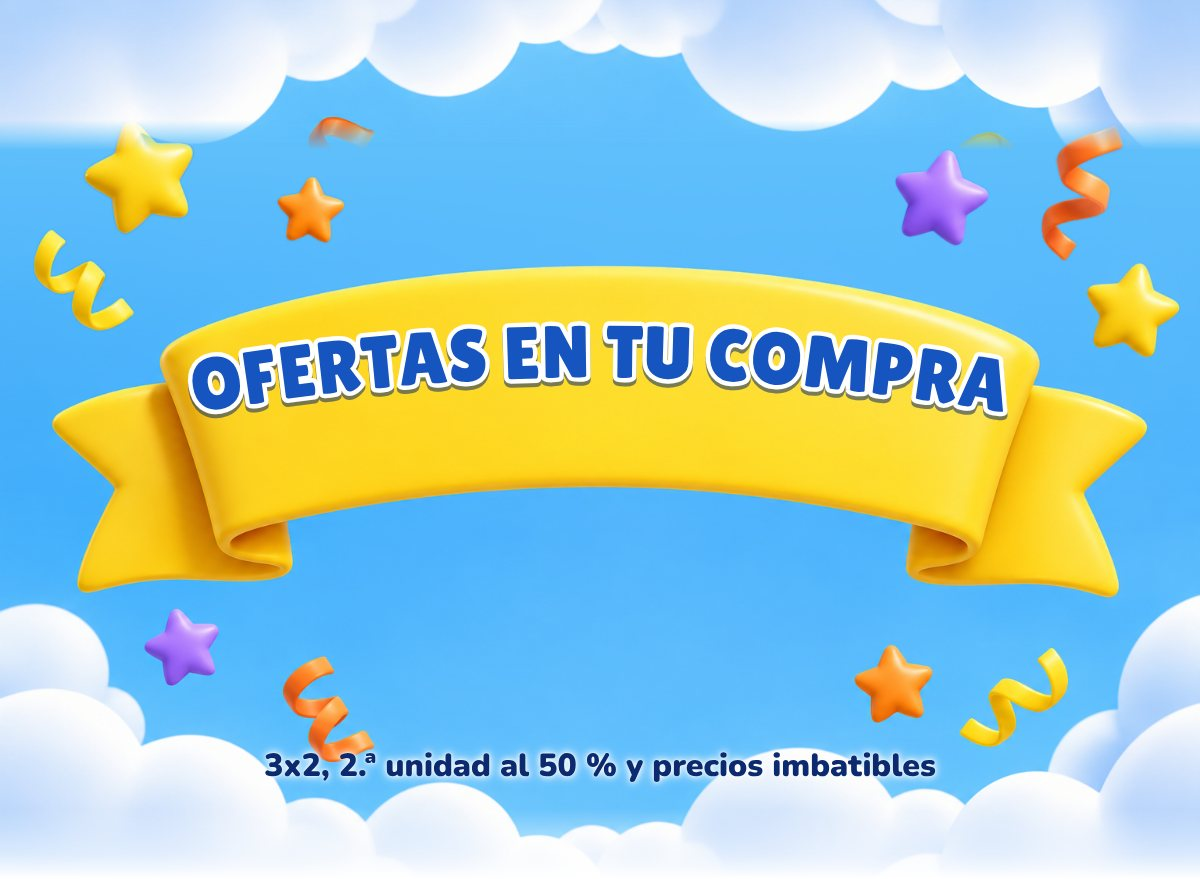
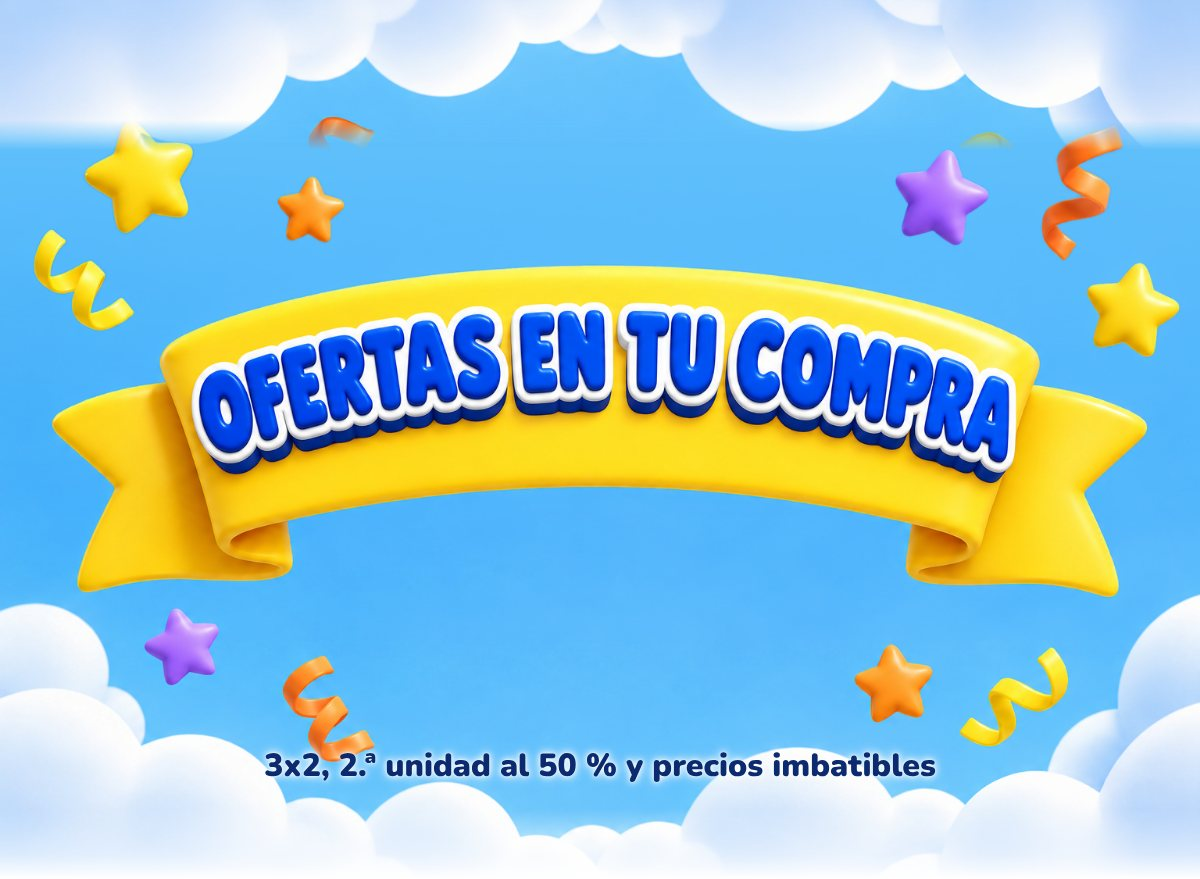
Cabeceras de sección con rótulos 3D generados sobre la cinta
Claude-Session: https://claude.ai/code/session_014n8fruw4BUtYLKWozkJouR

diff --git a/index.html b/index.html
@@ -19,52 +19,52 @@ body{margin:0;padding:0;background:#EEF3F9}
 <tr><td align="center" style="padding:10px 16px;font-family:Arial, Helvetica, sans-serif;font-size:12px;line-height:18px;color:#4A5878;background:#EEF3F9">
 <strong style="color:#0B2A6F">Publicidad</strong> · Ejercicio académico. Mercaviva es una marca ficticia; no es una comunicación oficial de Carrefour.<br>
 ¿No ves bien este email? <a href="{$url}" target="_blank" style="color:#0057B8;text-decoration:underline">Ábrelo en el navegador</a></td></tr>
-<tr><td style="padding:0"><a href="https://www.carrefour.es/lavadora-lg-f2x50s9tlb-9-kg-carga-frontal-1200-rpm-wifi-clase-a-blanco/VC4A-32514266/p?utm_source=newsletter&utm_medium=email&utm_campaign=black_friday_2026&utm_content=lavadora_lg" target="_blank"><img src="https://caarlosfdz.github.io/newsletter-mercaviva/bf-cover.jpg?v=10190853" width="600" alt="Mercaviva. Black Friday del 20 de octubre al 27 de noviembre: 50 % y 70 % de descuento en tecnología, electrodomésticos y alimentación" class="fluid" style="display:block;width:100%;max-width:600px;height:auto;border:0"></a></td></tr>
-<tr><td style="padding:0"><a href="https://www.carrefour.es/lavadora-lg-f2x50s9tlb-9-kg-carga-frontal-1200-rpm-wifi-clase-a-blanco/VC4A-32514266/p?utm_source=newsletter&utm_medium=email&utm_campaign=black_friday_2026&utm_content=lavadora_lg" target="_blank"><img src="https://caarlosfdz.github.io/newsletter-mercaviva/bf-p1.jpg?v=10190853" width="600" alt="Lavadora LG 9 kg: 164,70 €, antes 549 €, 70 % de descuento" class="fluid" style="display:block;width:100%;max-width:600px;height:auto;border:0"></a></td></tr>
-<tr><td style="padding:0"><img src="https://caarlosfdz.github.io/newsletter-mercaviva/bf-tit-tecnologia.jpg?v=10190853" width="600" alt="Ofertas en tecnología: descuentos de hasta el 70 %" class="fluid" style="display:block;width:100%;max-width:600px;height:auto;border:0"></td></tr>
-<tr><td style="padding:0"><img src="https://caarlosfdz.github.io/newsletter-mercaviva/bf-nubes-arriba.jpg?v=10190853" width="600" alt="" class="fluid" style="display:block;width:100%;max-width:600px;height:auto;border:0"></td></tr>
+<tr><td style="padding:0"><a href="https://www.carrefour.es/lavadora-lg-f2x50s9tlb-9-kg-carga-frontal-1200-rpm-wifi-clase-a-blanco/VC4A-32514266/p?utm_source=newsletter&utm_medium=email&utm_campaign=black_friday_2026&utm_content=lavadora_lg" target="_blank"><img src="https://caarlosfdz.github.io/newsletter-mercaviva/bf-cover.jpg?v=10190857" width="600" alt="Mercaviva. Black Friday del 20 de octubre al 27 de noviembre: 50 % y 70 % de descuento en tecnología, electrodomésticos y alimentación" class="fluid" style="display:block;width:100%;max-width:600px;height:auto;border:0"></a></td></tr>
+<tr><td style="padding:0"><a href="https://www.carrefour.es/lavadora-lg-f2x50s9tlb-9-kg-carga-frontal-1200-rpm-wifi-clase-a-blanco/VC4A-32514266/p?utm_source=newsletter&utm_medium=email&utm_campaign=black_friday_2026&utm_content=lavadora_lg" target="_blank"><img src="https://caarlosfdz.github.io/newsletter-mercaviva/bf-p1.jpg?v=10190857" width="600" alt="Lavadora LG 9 kg: 164,70 €, antes 549 €, 70 % de descuento" class="fluid" style="display:block;width:100%;max-width:600px;height:auto;border:0"></a></td></tr>
+<tr><td style="padding:0"><img src="https://caarlosfdz.github.io/newsletter-mercaviva/bf-tit-tecnologia.jpg?v=10190857" width="600" alt="Ofertas en tecnología: descuentos de hasta el 70 %" class="fluid" style="display:block;width:100%;max-width:600px;height:auto;border:0"></td></tr>
+<tr><td style="padding:0"><img src="https://caarlosfdz.github.io/newsletter-mercaviva/bf-nubes-arriba.jpg?v=10190857" width="600" alt="" class="fluid" style="display:block;width:100%;max-width:600px;height:auto;border:0"></td></tr>
 <tr><td bgcolor="#5CC4FC" style="padding:0;background:#5CC4FC"><table role="presentation" cellpadding="0" cellspacing="0" border="0" width="100%"><tr>
-<td class="col" width="300" valign="top" style="width:300px;vertical-align:top"><a href="https://www.carrefour.es/proyector-yaber-pro-u9-proyector-1080p-nativo-con-wifi-5g-y-bluetooth-15000lm-brillo-ultra-alto-460-ansi-corrector-keystone-4p-4d/0602561264473/p?utm_source=newsletter&utm_medium=email&utm_campaign=black_friday_2026&utm_content=proyector_yaber" target="_blank"><img src="https://caarlosfdz.github.io/newsletter-mercaviva/bf-p6.png?v=10190853" width="300" alt="Proyector Yaber Pro U9: 95,22 €, antes 218,99 €, −56,5 % y envío gratis" class="fluid" style="display:block;width:100%;max-width:300px;height:auto;border:0"></a>
+<td class="col" width="300" valign="top" style="width:300px;vertical-align:top"><a href="https://www.carrefour.es/proyector-yaber-pro-u9-proyector-1080p-nativo-con-wifi-5g-y-bluetooth-15000lm-brillo-ultra-alto-460-ansi-corrector-keystone-4p-4d/0602561264473/p?utm_source=newsletter&utm_medium=email&utm_campaign=black_friday_2026&utm_content=proyector_yaber" target="_blank"><img src="https://caarlosfdz.github.io/newsletter-mercaviva/bf-p6.png?v=10190857" width="300" alt="Proyector Yaber Pro U9: 95,22 €, antes 218,99 €, −56,5 % y envío gratis" class="fluid" style="display:block;width:100%;max-width:300px;height:auto;border:0"></a>
 <div style="padding:4px 14px 26px"><table role="presentation" cellpadding="0" cellspacing="0" border="0" width="100%"><tr><td align="center" bgcolor="#5CC4FC" style="background:#5CC4FC">
-<a href="https://www.carrefour.es/proyector-yaber-pro-u9-proyector-1080p-nativo-con-wifi-5g-y-bluetooth-15000lm-brillo-ultra-alto-460-ansi-corrector-keystone-4p-4d/0602561264473/p?utm_source=newsletter&utm_medium=email&utm_campaign=black_friday_2026&utm_content=proyector_yaber" target="_blank" style="display:block;text-decoration:none"><img src="https://caarlosfdz.github.io/newsletter-mercaviva/bf-btn-p6.png?v=10190853" width="270" alt="Llévatelo ya" class="fluid" style="display:block;width:100%;max-width:270px;height:auto;border:0;font-family:Arial, Helvetica, sans-serif;font-size:16px;font-weight:bold;line-height:52px;color:#0B2A6F;text-align:center"></a></td></tr></table></div></td>
-<td class="col" width="300" valign="top" style="width:300px;vertical-align:top"><a href="https://www.carrefour.es/lavavajillas-60-cm-candy-cf3e7e0w-5-programas-13-cubiertos-clase-e-blanco/VC4A-33175690/p?utm_source=newsletter&utm_medium=email&utm_campaign=black_friday_2026&utm_content=lavavajillas_candy" target="_blank"><img src="https://caarlosfdz.github.io/newsletter-mercaviva/bf-p2.png?v=10190853" width="300" alt="Lavavajillas Candy CF3E7E0W: 154,50 €, antes 309 €, −50 %" class="fluid" style="display:block;width:100%;max-width:300px;height:auto;border:0"></a>
+<a href="https://www.carrefour.es/proyector-yaber-pro-u9-proyector-1080p-nativo-con-wifi-5g-y-bluetooth-15000lm-brillo-ultra-alto-460-ansi-corrector-keystone-4p-4d/0602561264473/p?utm_source=newsletter&utm_medium=email&utm_campaign=black_friday_2026&utm_content=proyector_yaber" target="_blank" style="display:block;text-decoration:none"><img src="https://caarlosfdz.github.io/newsletter-mercaviva/bf-btn-p6.png?v=10190857" width="270" alt="Llévatelo ya" class="fluid" style="display:block;width:100%;max-width:270px;height:auto;border:0;font-family:Arial, Helvetica, sans-serif;font-size:16px;font-weight:bold;line-height:52px;color:#0B2A6F;text-align:center"></a></td></tr></table></div></td>
+<td class="col" width="300" valign="top" style="width:300px;vertical-align:top"><a href="https://www.carrefour.es/lavavajillas-60-cm-candy-cf3e7e0w-5-programas-13-cubiertos-clase-e-blanco/VC4A-33175690/p?utm_source=newsletter&utm_medium=email&utm_campaign=black_friday_2026&utm_content=lavavajillas_candy" target="_blank"><img src="https://caarlosfdz.github.io/newsletter-mercaviva/bf-p2.png?v=10190857" width="300" alt="Lavavajillas Candy CF3E7E0W: 154,50 €, antes 309 €, −50 %" class="fluid" style="display:block;width:100%;max-width:300px;height:auto;border:0"></a>
 <div style="padding:4px 14px 26px"><table role="presentation" cellpadding="0" cellspacing="0" border="0" width="100%"><tr><td align="center" bgcolor="#5CC4FC" style="background:#5CC4FC">
-<a href="https://www.carrefour.es/lavavajillas-60-cm-candy-cf3e7e0w-5-programas-13-cubiertos-clase-e-blanco/VC4A-33175690/p?utm_source=newsletter&utm_medium=email&utm_campaign=black_friday_2026&utm_content=lavavajillas_candy" target="_blank" style="display:block;text-decoration:none"><img src="https://caarlosfdz.github.io/newsletter-mercaviva/bf-btn-p2.png?v=10190853" width="270" alt="Aprovecha el −50 %" class="fluid" style="display:block;width:100%;max-width:270px;height:auto;border:0;font-family:Arial, Helvetica, sans-serif;font-size:16px;font-weight:bold;line-height:52px;color:#0B2A6F;text-align:center"></a></td></tr></table></div></td></tr></table></td></tr>
+<a href="https://www.carrefour.es/lavavajillas-60-cm-candy-cf3e7e0w-5-programas-13-cubiertos-clase-e-blanco/VC4A-33175690/p?utm_source=newsletter&utm_medium=email&utm_campaign=black_friday_2026&utm_content=lavavajillas_candy" target="_blank" style="display:block;text-decoration:none"><img src="https://caarlosfdz.github.io/newsletter-mercaviva/bf-btn-p2.png?v=10190857" width="270" alt="Aprovecha el −50 %" class="fluid" style="display:block;width:100%;max-width:270px;height:auto;border:0;font-family:Arial, Helvetica, sans-serif;font-size:16px;font-weight:bold;line-height:52px;color:#0B2A6F;text-align:center"></a></td></tr></table></div></td></tr></table></td></tr>
 <tr><td bgcolor="#5CC4FC" style="padding:0;background:#5CC4FC"><table role="presentation" cellpadding="0" cellspacing="0" border="0" width="100%"><tr>
-<td class="col" width="300" valign="top" style="width:300px;vertical-align:top"><a href="https://www.carrefour.es/tv-lg-oled-evo-c5-2025-83-uhd-4k-oled83c5ela/8806096419687/p?utm_source=newsletter&utm_medium=email&utm_campaign=black_friday_2026&utm_content=tv_lg_oled" target="_blank"><img src="https://caarlosfdz.github.io/newsletter-mercaviva/bf-p5.png?v=10190853" width="300" alt="TV LG OLED evo C5 83 pulgadas: 4.877,62 €, antes 6.150,99 €, −20,7 %" class="fluid" style="display:block;width:100%;max-width:300px;height:auto;border:0"></a>
+<td class="col" width="300" valign="top" style="width:300px;vertical-align:top"><a href="https://www.carrefour.es/tv-lg-oled-evo-c5-2025-83-uhd-4k-oled83c5ela/8806096419687/p?utm_source=newsletter&utm_medium=email&utm_campaign=black_friday_2026&utm_content=tv_lg_oled" target="_blank"><img src="https://caarlosfdz.github.io/newsletter-mercaviva/bf-p5.png?v=10190857" width="300" alt="TV LG OLED evo C5 83 pulgadas: 4.877,62 €, antes 6.150,99 €, −20,7 %" class="fluid" style="display:block;width:100%;max-width:300px;height:auto;border:0"></a>
 <div style="padding:4px 14px 26px"><table role="presentation" cellpadding="0" cellspacing="0" border="0" width="100%"><tr><td align="center" bgcolor="#5CC4FC" style="background:#5CC4FC">
-<a href="https://www.carrefour.es/tv-lg-oled-evo-c5-2025-83-uhd-4k-oled83c5ela/8806096419687/p?utm_source=newsletter&utm_medium=email&utm_campaign=black_friday_2026&utm_content=tv_lg_oled" target="_blank" style="display:block;text-decoration:none"><img src="https://caarlosfdz.github.io/newsletter-mercaviva/bf-btn-p5.png?v=10190853" width="270" alt="Ahorra 1.273 €" class="fluid" style="display:block;width:100%;max-width:270px;height:auto;border:0;font-family:Arial, Helvetica, sans-serif;font-size:16px;font-weight:bold;line-height:52px;color:#0B2A6F;text-align:center"></a></td></tr></table></div></td>
-<td class="col" width="300" valign="top" style="width:300px;vertical-align:top"><a href="https://www.carrefour.es/consola-nintendo-switch-2-256-gb-star-fox/VLOT-34789303/p?utm_source=newsletter&utm_medium=email&utm_campaign=black_friday_2026&utm_content=switch2_starfox" target="_blank"><img src="https://caarlosfdz.github.io/newsletter-mercaviva/bf-p3.png?v=10190853" width="300" alt="Nintendo Switch 2 + Star Fox: súperchollo a 519 €" class="fluid" style="display:block;width:100%;max-width:300px;height:auto;border:0"></a>
+<a href="https://www.carrefour.es/tv-lg-oled-evo-c5-2025-83-uhd-4k-oled83c5ela/8806096419687/p?utm_source=newsletter&utm_medium=email&utm_campaign=black_friday_2026&utm_content=tv_lg_oled" target="_blank" style="display:block;text-decoration:none"><img src="https://caarlosfdz.github.io/newsletter-mercaviva/bf-btn-p5.png?v=10190857" width="270" alt="Ahorra 1.273 €" class="fluid" style="display:block;width:100%;max-width:270px;height:auto;border:0;font-family:Arial, Helvetica, sans-serif;font-size:16px;font-weight:bold;line-height:52px;color:#0B2A6F;text-align:center"></a></td></tr></table></div></td>
+<td class="col" width="300" valign="top" style="width:300px;vertical-align:top"><a href="https://www.carrefour.es/consola-nintendo-switch-2-256-gb-star-fox/VLOT-34789303/p?utm_source=newsletter&utm_medium=email&utm_campaign=black_friday_2026&utm_content=switch2_starfox" target="_blank"><img src="https://caarlosfdz.github.io/newsletter-mercaviva/bf-p3.png?v=10190857" width="300" alt="Nintendo Switch 2 + Star Fox: súperchollo a 519 €" class="fluid" style="display:block;width:100%;max-width:300px;height:auto;border:0"></a>
 <div style="padding:4px 14px 26px"><table role="presentation" cellpadding="0" cellspacing="0" border="0" width="100%"><tr><td align="center" bgcolor="#5CC4FC" style="background:#5CC4FC">
-<a href="https://www.carrefour.es/consola-nintendo-switch-2-256-gb-star-fox/VLOT-34789303/p?utm_source=newsletter&utm_medium=email&utm_campaign=black_friday_2026&utm_content=switch2_starfox" target="_blank" style="display:block;text-decoration:none"><img src="https://caarlosfdz.github.io/newsletter-mercaviva/bf-btn-p3.png?v=10190853" width="270" alt="Ver el súperchollo" class="fluid" style="display:block;width:100%;max-width:270px;height:auto;border:0;font-family:Arial, Helvetica, sans-serif;font-size:16px;font-weight:bold;line-height:52px;color:#0B2A6F;text-align:center"></a></td></tr></table></div></td></tr></table></td></tr>
+<a href="https://www.carrefour.es/consola-nintendo-switch-2-256-gb-star-fox/VLOT-34789303/p?utm_source=newsletter&utm_medium=email&utm_campaign=black_friday_2026&utm_content=switch2_starfox" target="_blank" style="display:block;text-decoration:none"><img src="https://caarlosfdz.github.io/newsletter-mercaviva/bf-btn-p3.png?v=10190857" width="270" alt="Ver el súperchollo" class="fluid" style="display:block;width:100%;max-width:270px;height:auto;border:0;font-family:Arial, Helvetica, sans-serif;font-size:16px;font-weight:bold;line-height:52px;color:#0B2A6F;text-align:center"></a></td></tr></table></div></td></tr></table></td></tr>
 
 <tr><td bgcolor="#5CC4FC" style="padding:0;background:#5CC4FC"><table role="presentation" cellpadding="0" cellspacing="0" border="0" width="100%"><tr>
-<td class="col" width="300" valign="top" style="width:300px;vertical-align:top"><a href="https://www.carrefour.es/pikmin-4-academia-dandori-para-switch-2/VC4A-34697905/p?utm_source=newsletter&utm_medium=email&utm_campaign=black_friday_2026&utm_content=pikmin4" target="_blank"><img src="https://caarlosfdz.github.io/newsletter-mercaviva/bf-p4.png?v=10190853" width="300" alt="Pikmin 4 + Academia Dandori en precompra: 59,90 €, antes 69,99 €, envío gratis" class="fluid" style="display:block;width:100%;max-width:300px;height:auto;border:0"></a>
+<td class="col" width="300" valign="top" style="width:300px;vertical-align:top"><a href="https://www.carrefour.es/pikmin-4-academia-dandori-para-switch-2/VC4A-34697905/p?utm_source=newsletter&utm_medium=email&utm_campaign=black_friday_2026&utm_content=pikmin4" target="_blank"><img src="https://caarlosfdz.github.io/newsletter-mercaviva/bf-p4.png?v=10190857" width="300" alt="Pikmin 4 + Academia Dandori en precompra: 59,90 €, antes 69,99 €, envío gratis" class="fluid" style="display:block;width:100%;max-width:300px;height:auto;border:0"></a>
 <div style="padding:4px 14px 26px"><table role="presentation" cellpadding="0" cellspacing="0" border="0" width="100%"><tr><td align="center" bgcolor="#5CC4FC" style="background:#5CC4FC">
-<a href="https://www.carrefour.es/pikmin-4-academia-dandori-para-switch-2/VC4A-34697905/p?utm_source=newsletter&utm_medium=email&utm_campaign=black_friday_2026&utm_content=pikmin4" target="_blank" style="display:block;text-decoration:none"><img src="https://caarlosfdz.github.io/newsletter-mercaviva/bf-btn-p4.png?v=10190853" width="270" alt="Resérvalo ya" class="fluid" style="display:block;width:100%;max-width:270px;height:auto;border:0;font-family:Arial, Helvetica, sans-serif;font-size:16px;font-weight:bold;line-height:52px;color:#0B2A6F;text-align:center"></a></td></tr></table></div></td>
+<a href="https://www.carrefour.es/pikmin-4-academia-dandori-para-switch-2/VC4A-34697905/p?utm_source=newsletter&utm_medium=email&utm_campaign=black_friday_2026&utm_content=pikmin4" target="_blank" style="display:block;text-decoration:none"><img src="https://caarlosfdz.github.io/newsletter-mercaviva/bf-btn-p4.png?v=10190857" width="270" alt="Resérvalo ya" class="fluid" style="display:block;width:100%;max-width:270px;height:auto;border:0;font-family:Arial, Helvetica, sans-serif;font-size:16px;font-weight:bold;line-height:52px;color:#0B2A6F;text-align:center"></a></td></tr></table></div></td>
 <td class="col" width="300" valign="middle" style="width:300px;vertical-align:middle;padding:20px;font-family:Arial, Helvetica, sans-serif;color:#0B2A6F">
 <p style="margin:0 0 8px;font-size:20px;line-height:24px;font-weight:bold">Envío gratis</p>
 <p style="margin:0;font-size:15px;line-height:21px">En los productos marcados. Ofertas válidas del 20 de octubre al 27 de noviembre o hasta fin de existencias.</p></td></tr></table></td></tr>
-<tr><td style="padding:0"><img src="https://caarlosfdz.github.io/newsletter-mercaviva/bf-nubes-abajo.jpg?v=10190853" width="600" alt="" class="fluid" style="display:block;width:100%;max-width:600px;height:auto;border:0"></td></tr>
-<tr><td style="padding:0"><img src="https://caarlosfdz.github.io/newsletter-mercaviva/bf-tit-compra.jpg?v=10190853" width="600" alt="Ofertas en tu compra: 3x2, 2.ª unidad al 50 % y precios imbatibles" class="fluid" style="display:block;width:100%;max-width:600px;height:auto;border:0"></td></tr>
-<tr><td style="padding:0"><img src="https://caarlosfdz.github.io/newsletter-mercaviva/bf-nubes-arriba.jpg?v=10190853" width="600" alt="" class="fluid" style="display:block;width:100%;max-width:600px;height:auto;border:0"></td></tr>
+<tr><td style="padding:0"><img src="https://caarlosfdz.github.io/newsletter-mercaviva/bf-nubes-abajo.jpg?v=10190857" width="600" alt="" class="fluid" style="display:block;width:100%;max-width:600px;height:auto;border:0"></td></tr>
+<tr><td style="padding:0"><img src="https://caarlosfdz.github.io/newsletter-mercaviva/bf-tit-compra.jpg?v=10190857" width="600" alt="Ofertas en tu compra: 3x2, 2.ª unidad al 50 % y precios imbatibles" class="fluid" style="display:block;width:100%;max-width:600px;height:auto;border:0"></td></tr>
+<tr><td style="padding:0"><img src="https://caarlosfdz.github.io/newsletter-mercaviva/bf-nubes-arriba.jpg?v=10190857" width="600" alt="" class="fluid" style="display:block;width:100%;max-width:600px;height:auto;border:0"></td></tr>
 <tr><td bgcolor="#5CC4FC" style="padding:0;background:#5CC4FC"><table role="presentation" cellpadding="0" cellspacing="0" border="0" width="100%"><tr>
-<td class="col" width="300" valign="top" style="width:300px;vertical-align:top"><a href="https://www.carrefour.es/supermercado/aceite-de-oliva-virgen-serie-oro-coosur-1-l/R-VC4AECOMM-484256/p?utm_source=newsletter&utm_medium=email&utm_campaign=black_friday_2026&utm_content=aceite_coosur" target="_blank"><img src="https://caarlosfdz.github.io/newsletter-mercaviva/bf-p9.png?v=10190853" width="300" alt="Aceite Coosur Serie Oro 1 l: 3x2, el litro sale a 4,13 €" class="fluid" style="display:block;width:100%;max-width:300px;height:auto;border:0"></a>
+<td class="col" width="300" valign="top" style="width:300px;vertical-align:top"><a href="https://www.carrefour.es/supermercado/aceite-de-oliva-virgen-serie-oro-coosur-1-l/R-VC4AECOMM-484256/p?utm_source=newsletter&utm_medium=email&utm_campaign=black_friday_2026&utm_content=aceite_coosur" target="_blank"><img src="https://caarlosfdz.github.io/newsletter-mercaviva/bf-p9.png?v=10190857" width="300" alt="Aceite Coosur Serie Oro 1 l: 3x2, el litro sale a 4,13 €" class="fluid" style="display:block;width:100%;max-width:300px;height:auto;border:0"></a>
 <div style="padding:4px 14px 26px"><table role="presentation" cellpadding="0" cellspacing="0" border="0" width="100%"><tr><td align="center" bgcolor="#5CC4FC" style="background:#5CC4FC">
-<a href="https://www.carrefour.es/supermercado/aceite-de-oliva-virgen-serie-oro-coosur-1-l/R-VC4AECOMM-484256/p?utm_source=newsletter&utm_medium=email&utm_campaign=black_friday_2026&utm_content=aceite_coosur" target="_blank" style="display:block;text-decoration:none"><img src="https://caarlosfdz.github.io/newsletter-mercaviva/bf-btn-p9.png?v=10190853" width="270" alt="Llévate 3, paga 2" class="fluid" style="display:block;width:100%;max-width:270px;height:auto;border:0;font-family:Arial, Helvetica, sans-serif;font-size:16px;font-weight:bold;line-height:52px;color:#0B2A6F;text-align:center"></a></td></tr></table></div></td>
-<td class="col" width="300" valign="top" style="width:300px;vertical-align:top"><a href="https://www.carrefour.es/supermercado/aceite-de-oliva-suave-04-la-espanola-1-l/R-520660257/p?utm_source=newsletter&utm_medium=email&utm_campaign=black_friday_2026&utm_content=aceite_la_espanola" target="_blank"><img src="https://caarlosfdz.github.io/newsletter-mercaviva/bf-p10.png?v=10190853" width="300" alt="Aceite La Española suave 1 l: 3x2, el litro sale a 3,66 €" class="fluid" style="display:block;width:100%;max-width:300px;height:auto;border:0"></a>
+<a href="https://www.carrefour.es/supermercado/aceite-de-oliva-virgen-serie-oro-coosur-1-l/R-VC4AECOMM-484256/p?utm_source=newsletter&utm_medium=email&utm_campaign=black_friday_2026&utm_content=aceite_coosur" target="_blank" style="display:block;text-decoration:none"><img src="https://caarlosfdz.github.io/newsletter-mercaviva/bf-btn-p9.png?v=10190857" width="270" alt="Llévate 3, paga 2" class="fluid" style="display:block;width:100%;max-width:270px;height:auto;border:0;font-family:Arial, Helvetica, sans-serif;font-size:16px;font-weight:bold;line-height:52px;color:#0B2A6F;text-align:center"></a></td></tr></table></div></td>
+<td class="col" width="300" valign="top" style="width:300px;vertical-align:top"><a href="https://www.carrefour.es/supermercado/aceite-de-oliva-suave-04-la-espanola-1-l/R-520660257/p?utm_source=newsletter&utm_medium=email&utm_campaign=black_friday_2026&utm_content=aceite_la_espanola" target="_blank"><img src="https://caarlosfdz.github.io/newsletter-mercaviva/bf-p10.png?v=10190857" width="300" alt="Aceite La Española suave 1 l: 3x2, el litro sale a 3,66 €" class="fluid" style="display:block;width:100%;max-width:300px;height:auto;border:0"></a>
 <div style="padding:4px 14px 26px"><table role="presentation" cellpadding="0" cellspacing="0" border="0" width="100%"><tr><td align="center" bgcolor="#5CC4FC" style="background:#5CC4FC">
-<a href="https://www.carrefour.es/supermercado/aceite-de-oliva-suave-04-la-espanola-1-l/R-520660257/p?utm_source=newsletter&utm_medium=email&utm_campaign=black_friday_2026&utm_content=aceite_la_espanola" target="_blank" style="display:block;text-decoration:none"><img src="https://caarlosfdz.github.io/newsletter-mercaviva/bf-btn-p10.png?v=10190853" width="270" alt="Aprovecha el 3x2" class="fluid" style="display:block;width:100%;max-width:270px;height:auto;border:0;font-family:Arial, Helvetica, sans-serif;font-size:16px;font-weight:bold;line-height:52px;color:#0B2A6F;text-align:center"></a></td></tr></table></div></td></tr></table></td></tr>
+<a href="https://www.carrefour.es/supermercado/aceite-de-oliva-suave-04-la-espanola-1-l/R-520660257/p?utm_source=newsletter&utm_medium=email&utm_campaign=black_friday_2026&utm_content=aceite_la_espanola" target="_blank" style="display:block;text-decoration:none"><img src="https://caarlosfdz.github.io/newsletter-mercaviva/bf-btn-p10.png?v=10190857" width="270" alt="Aprovecha el 3x2" class="fluid" style="display:block;width:100%;max-width:270px;height:auto;border:0;font-family:Arial, Helvetica, sans-serif;font-size:16px;font-weight:bold;line-height:52px;color:#0B2A6F;text-align:center"></a></td></tr></table></div></td></tr></table></td></tr>
 <tr><td bgcolor="#5CC4FC" style="padding:0;background:#5CC4FC"><table role="presentation" cellpadding="0" cellspacing="0" border="0" width="100%"><tr>
-<td class="col" width="300" valign="top" style="width:300px;vertical-align:top"><a href="https://www.carrefour.es/supermercado/salmon-ahumado-noruego-carrefour-extra-100-g/R-682701980/p?utm_source=newsletter&utm_medium=email&utm_campaign=black_friday_2026&utm_content=salmon_ahumado" target="_blank"><img src="https://caarlosfdz.github.io/newsletter-mercaviva/bf-p7.png?v=10190853" width="300" alt="Salmón ahumado noruego Extra 100 g: 2.ª unidad al 50 %, cada una a 2,77 €" class="fluid" style="display:block;width:100%;max-width:300px;height:auto;border:0"></a>
+<td class="col" width="300" valign="top" style="width:300px;vertical-align:top"><a href="https://www.carrefour.es/supermercado/salmon-ahumado-noruego-carrefour-extra-100-g/R-682701980/p?utm_source=newsletter&utm_medium=email&utm_campaign=black_friday_2026&utm_content=salmon_ahumado" target="_blank"><img src="https://caarlosfdz.github.io/newsletter-mercaviva/bf-p7.png?v=10190857" width="300" alt="Salmón ahumado noruego Extra 100 g: 2.ª unidad al 50 %, cada una a 2,77 €" class="fluid" style="display:block;width:100%;max-width:300px;height:auto;border:0"></a>
 <div style="padding:4px 14px 26px"><table role="presentation" cellpadding="0" cellspacing="0" border="0" width="100%"><tr><td align="center" bgcolor="#5CC4FC" style="background:#5CC4FC">
-<a href="https://www.carrefour.es/supermercado/salmon-ahumado-noruego-carrefour-extra-100-g/R-682701980/p?utm_source=newsletter&utm_medium=email&utm_campaign=black_friday_2026&utm_content=salmon_ahumado" target="_blank" style="display:block;text-decoration:none"><img src="https://caarlosfdz.github.io/newsletter-mercaviva/bf-btn-p7.png?v=10190853" width="270" alt="Añadir a la cesta" class="fluid" style="display:block;width:100%;max-width:270px;height:auto;border:0;font-family:Arial, Helvetica, sans-serif;font-size:16px;font-weight:bold;line-height:52px;color:#0B2A6F;text-align:center"></a></td></tr></table></div></td>
-<td class="col" width="300" valign="top" style="width:300px;vertical-align:top"><a href="https://www.carrefour.es/supermercado/lubina-600-g-aprox/R-790212148/p?utm_source=newsletter&utm_medium=email&utm_campaign=black_friday_2026&utm_content=lubina" target="_blank"><img src="https://caarlosfdz.github.io/newsletter-mercaviva/bf-p8.png?v=10190853" width="300" alt="Lubina 600 g aprox.: 5,39 €, antes 5,97 €" class="fluid" style="display:block;width:100%;max-width:300px;height:auto;border:0"></a>
+<a href="https://www.carrefour.es/supermercado/salmon-ahumado-noruego-carrefour-extra-100-g/R-682701980/p?utm_source=newsletter&utm_medium=email&utm_campaign=black_friday_2026&utm_content=salmon_ahumado" target="_blank" style="display:block;text-decoration:none"><img src="https://caarlosfdz.github.io/newsletter-mercaviva/bf-btn-p7.png?v=10190857" width="270" alt="Añadir a la cesta" class="fluid" style="display:block;width:100%;max-width:270px;height:auto;border:0;font-family:Arial, Helvetica, sans-serif;font-size:16px;font-weight:bold;line-height:52px;color:#0B2A6F;text-align:center"></a></td></tr></table></div></td>
+<td class="col" width="300" valign="top" style="width:300px;vertical-align:top"><a href="https://www.carrefour.es/supermercado/lubina-600-g-aprox/R-790212148/p?utm_source=newsletter&utm_medium=email&utm_campaign=black_friday_2026&utm_content=lubina" target="_blank"><img src="https://caarlosfdz.github.io/newsletter-mercaviva/bf-p8.png?v=10190857" width="300" alt="Lubina 600 g aprox.: 5,39 €, antes 5,97 €" class="fluid" style="display:block;width:100%;max-width:300px;height:auto;border:0"></a>
 <div style="padding:4px 14px 26px"><table role="presentation" cellpadding="0" cellspacing="0" border="0" width="100%"><tr><td align="center" bgcolor="#5CC4FC" style="background:#5CC4FC">
-<a href="https://www.carrefour.es/supermercado/lubina-600-g-aprox/R-790212148/p?utm_source=newsletter&utm_medium=email&utm_campaign=black_friday_2026&utm_content=lubina" target="_blank" style="display:block;text-decoration:none"><img src="https://caarlosfdz.github.io/newsletter-mercaviva/bf-btn-p8.png?v=10190853" width="270" alt="Quiero esta lubina" class="fluid" style="display:block;width:100%;max-width:270px;height:auto;border:0;font-family:Arial, Helvetica, sans-serif;font-size:16px;font-weight:bold;line-height:52px;color:#0B2A6F;text-align:center"></a></td></tr></table></div></td></tr></table></td></tr>
-<tr><td style="padding:0"><img src="https://caarlosfdz.github.io/newsletter-mercaviva/bf-nubes-abajo.jpg?v=10190853" width="600" alt="" class="fluid" style="display:block;width:100%;max-width:600px;height:auto;border:0"></td></tr>
+<a href="https://www.carrefour.es/supermercado/lubina-600-g-aprox/R-790212148/p?utm_source=newsletter&utm_medium=email&utm_campaign=black_friday_2026&utm_content=lubina" target="_blank" style="display:block;text-decoration:none"><img src="https://caarlosfdz.github.io/newsletter-mercaviva/bf-btn-p8.png?v=10190857" width="270" alt="Quiero esta lubina" class="fluid" style="display:block;width:100%;max-width:270px;height:auto;border:0;font-family:Arial, Helvetica, sans-serif;font-size:16px;font-weight:bold;line-height:52px;color:#0B2A6F;text-align:center"></a></td></tr></table></div></td></tr></table></td></tr>
+<tr><td style="padding:0"><img src="https://caarlosfdz.github.io/newsletter-mercaviva/bf-nubes-abajo.jpg?v=10190857" width="600" alt="" class="fluid" style="display:block;width:100%;max-width:600px;height:auto;border:0"></td></tr>
 <tr><td align="center" style="padding:10px 20px 6px"><a href="https://www.mercaviva.es/?utm_source=newsletter&utm_medium=email&utm_campaign=black_friday_2026&utm_content=footer" target="_blank" style="font-family:Arial, Helvetica, sans-serif;font-size:16px;font-weight:bold;color:#0057B8;text-decoration:none">www.mercaviva.es</a></td></tr>
-<tr><td align="center" style="padding:8px 20px 18px"><table role="presentation" cellpadding="0" cellspacing="0" border="0"><tr><td style="padding:0 6px"><a href="https://www.mercaviva.es/redes/instagram" target="_blank"><img src="https://caarlosfdz.github.io/newsletter-mercaviva/bf-ico-instagram.png?v=10190853" width="40" height="40" alt="Instagram" style="display:block;border:0;width:40px;height:40px"></a></td><td style="padding:0 6px"><a href="https://www.mercaviva.es/redes/facebook" target="_blank"><img src="https://caarlosfdz.github.io/newsletter-mercaviva/bf-ico-facebook.png?v=10190853" width="40" height="40" alt="Facebook" style="display:block;border:0;width:40px;height:40px"></a></td><td style="padding:0 6px"><a href="https://www.mercaviva.es/redes/tiktok" target="_blank"><img src="https://caarlosfdz.github.io/newsletter-mercaviva/bf-ico-tiktok.png?v=10190853" width="40" height="40" alt="TikTok" style="display:block;border:0;width:40px;height:40px"></a></td><td style="padding:0 6px"><a href="https://www.mercaviva.es/redes/youtube" target="_blank"><img src="https://caarlosfdz.github.io/newsletter-mercaviva/bf-ico-youtube.png?v=10190853" width="40" height="40" alt="YouTube" style="display:block;border:0;width:40px;height:40px"></a></td><td style="padding:0 6px"><a href="https://www.mercaviva.es/redes/x" target="_blank"><img src="https://caarlosfdz.github.io/newsletter-mercaviva/bf-ico-x.png?v=10190853" width="40" height="40" alt="X" style="display:block;border:0;width:40px;height:40px"></a></td></tr></table></td></tr>
+<tr><td align="center" style="padding:8px 20px 18px"><table role="presentation" cellpadding="0" cellspacing="0" border="0"><tr><td style="padding:0 6px"><a href="https://www.mercaviva.es/redes/instagram" target="_blank"><img src="https://caarlosfdz.github.io/newsletter-mercaviva/bf-ico-instagram.png?v=10190857" width="40" height="40" alt="Instagram" style="display:block;border:0;width:40px;height:40px"></a></td><td style="padding:0 6px"><a href="https://www.mercaviva.es/redes/facebook" target="_blank"><img src="https://caarlosfdz.github.io/newsletter-mercaviva/bf-ico-facebook.png?v=10190857" width="40" height="40" alt="Facebook" style="display:block;border:0;width:40px;height:40px"></a></td><td style="padding:0 6px"><a href="https://www.mercaviva.es/redes/tiktok" target="_blank"><img src="https://caarlosfdz.github.io/newsletter-mercaviva/bf-ico-tiktok.png?v=10190857" width="40" height="40" alt="TikTok" style="display:block;border:0;width:40px;height:40px"></a></td><td style="padding:0 6px"><a href="https://www.mercaviva.es/redes/youtube" target="_blank"><img src="https://caarlosfdz.github.io/newsletter-mercaviva/bf-ico-youtube.png?v=10190857" width="40" height="40" alt="YouTube" style="display:block;border:0;width:40px;height:40px"></a></td><td style="padding:0 6px"><a href="https://www.mercaviva.es/redes/x" target="_blank"><img src="https://caarlosfdz.github.io/newsletter-mercaviva/bf-ico-x.png?v=10190857" width="40" height="40" alt="X" style="display:block;border:0;width:40px;height:40px"></a></td></tr></table></td></tr>
 <tr><td style="padding:16px 24px 26px;font-family:Arial, Helvetica, sans-serif;font-size:12px;line-height:18px;color:#4A5878;background:#EEF3F9">
 <p style="margin:0 0 10px"><strong style="color:#0B2A6F">Condiciones de las promociones.</strong> Válidas del 20/10/2026 al 27/11/2026 o hasta fin de existencias. <strong>3x2:</strong> al comprar 3 unidades del mismo producto, la de menor precio sale gratis. <strong>2.ª ud. al 50 %:</strong> descuento del 50 % en la segunda unidad del mismo producto. <strong>Envío gratis:</strong> solo en los productos indicados y en envíos a la península. Precios con IVA incluido. Descuentos calculados sobre el precio anterior indicado.</p>
 <p style="margin:0 0 10px">Recibes este email porque estás suscrito a la newsletter de Mercaviva. Remitente: Mercaviva Supermercados, S.A. (empresa ficticia), C/ Ejemplo, 1, 28000 Madrid. Consulta nuestra <a href="https://www.mercaviva.es/privacidad" target="_blank" style="color:#0057B8;text-decoration:underline">política de privacidad</a> o <a href="{$unsubscribe}" target="_blank" style="color:#0057B8;text-decoration:underline">date de baja</a> cuando quieras.</p>
